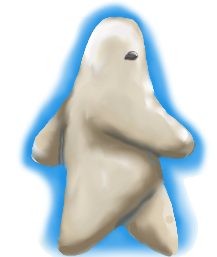
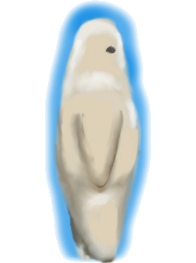
More player animations!

diff --git a/RunningGame/Systems/PlayerMovementSystem.cs b/RunningGame/Systems/PlayerMovementSystem.cs
@@ -93,11 +93,11 @@ namespace RunningGame.Systems
 
                 if (level.getInputSystem().myKeys[GlobalVars.KEY_RIGHT].pressed || level.getInputSystem().myKeys[GlobalVars.KEY_LEFT].pressed)
                 {
-                    animComp.animationOn = true;
+                    level.getPlayer().startAnimation();
                 }
                 else
                 {
-                    animComp.animationOn = false;
+                    level.getPlayer().stopAnimation();
                 }
 
 
@@ -181,7 +181,7 @@ namespace RunningGame.Systems
             velComp.setVelocity(-pelInComp.platformerMoveSpeed, velComp.y);
             if(!pelInComp.player.isLookingLeft())
                 pelInComp.player.faceLeft();
-            animComp.animationOn = true;
+            level.getPlayer().startAnimation();
             
         }
         public void beginMoveRight(PositionComponent posComp, VelocityComponent velComp, PlayerInputComponent pelInComp, AnimationComponent animComp)
@@ -189,17 +189,17 @@ namespace RunningGame.Systems
             velComp.setVelocity(pelInComp.platformerMoveSpeed, velComp.y);
             if(!pelInComp.player.isLookingRight())
                 pelInComp.player.faceRight();
-            animComp.animationOn = true;
+            level.getPlayer().startAnimation();
         }
         public void endLeftHorizontalMove(PositionComponent posComp, VelocityComponent velComp, AnimationComponent animComp)
         {
             if (velComp.x < 0) velComp.setVelocity(0, velComp.y);
-            animComp.animationOn = false;
+            level.getPlayer().stopAnimation();
         }
         public void endRightHorizontalMove(PositionComponent posComp, VelocityComponent velComp, AnimationComponent animComp)
         {
             if (velComp.x > 0) velComp.setVelocity(0, velComp.y);
-            animComp.animationOn = false;
+            level.getPlayer().stopAnimation();
         }
         public void endUpperMove(PositionComponent posComp, VelocityComponent velComp)
         {

diff --git a/RunningGame/Entities/Player.cs b/RunningGame/Entities/Player.cs
@@ -129,15 +129,20 @@ namespace RunningGame.Entities
         {
             string imgOne = baseName + "1.png";
             string imgTwo = baseName + "2.png";
+            string imgThree = baseName + "3.png";
             List<string> walkAnimation = new List<string>
             {
+                imgTwo,
                 imgOne,
-                imgTwo
+                imgTwo,
+                imgThree
             };
             List<string> walkDefaults = new List<string>()
             {
+                imgTwo,
                 imgOne,
-                imgTwo
+                imgTwo,
+                imgThree
             };
 
             drawComp.addAnimatedSprite(walkAnimation, walkDefaults, spriteNameRight);
@@ -245,6 +250,29 @@ namespace RunningGame.Entities
             
             if (left) drawComp.setSprite(activeLeftImage);
             else drawComp.setSprite(activeRightImage);
+        }
+
+
+        public void stopAnimation()
+        {
+            AnimationComponent animComp = (AnimationComponent)this.getComponent(GlobalVars.ANIMATION_COMPONENT_NAME);
+            if (animComp.animationOn)
+            {
+                animComp.animationOn = false;
+                DrawComponent drawComp = (DrawComponent)this.getComponent(GlobalVars.DRAW_COMPONENT_NAME);
+                if (drawComp.getSprite().currentImageIndex == 0 || drawComp.getSprite().currentImageIndex == 2)
+                {
+                    drawComp.getSprite().currentImageIndex++;
+                }
+            }
+        }
+        public void startAnimation()
+        {
+            AnimationComponent animComp = (AnimationComponent)this.getComponent(GlobalVars.ANIMATION_COMPONENT_NAME);
+            if (!animComp.animationOn)
+            {
+                animComp.animationOn = true;
+            }
         }
     }
 }

diff --git a/RunningGame/View.cs b/RunningGame/View.cs
@@ -159,8 +159,6 @@ namespace RunningGame
                   drawEntity(e);
             }
             
-
-            
             mainG.DrawImage(drawImg, new Point((int)displayX, (int)displayY)); //Draw the view to the main window
             
             
@@ -172,7 +170,6 @@ namespace RunningGame
             }
             //look into double buffers, mainG and G are different!
             //use mainG
-
             if (level.sysManager.drawSystem.getFlashTime() > 0)
             {
                 mainG.FillRectangle(level.sysManager.drawSystem.getFlashBrush(), new Rectangle((int)(displayX), (int)(displayY),

diff --git a/RunningGame/GlobalVars.cs b/RunningGame/GlobalVars.cs
@@ -117,7 +117,7 @@ namespace RunningGame
         public static int MAX_NUM_BULLETS = 2;
         public static float SPEEDY_SPEED = 600.0f;
         public static Bitmap grndImg = null;
-        public static float playerAnimatonSpeed = 0.1f;
+        public static float playerAnimatonSpeed = 0.07f;
         public static int doubleJumpNumAirJumps = 1;
         public static int normNumAirJumps = 0;
         public static int numAirJumps = 0;

diff --git a/RunningGame/Systems/DrawSystem.cs b/RunningGame/Systems/DrawSystem.cs
@@ -184,8 +184,7 @@ namespace RunningGame.Systems
             
             //this is where all the entities are drawn, so modify this for depth
             mainView.Draw(g, entityList);
-
-
+            
             /*
             //If you are in the level editor. Box the selected entities
             //Ignore this unless you are playing with level editor
